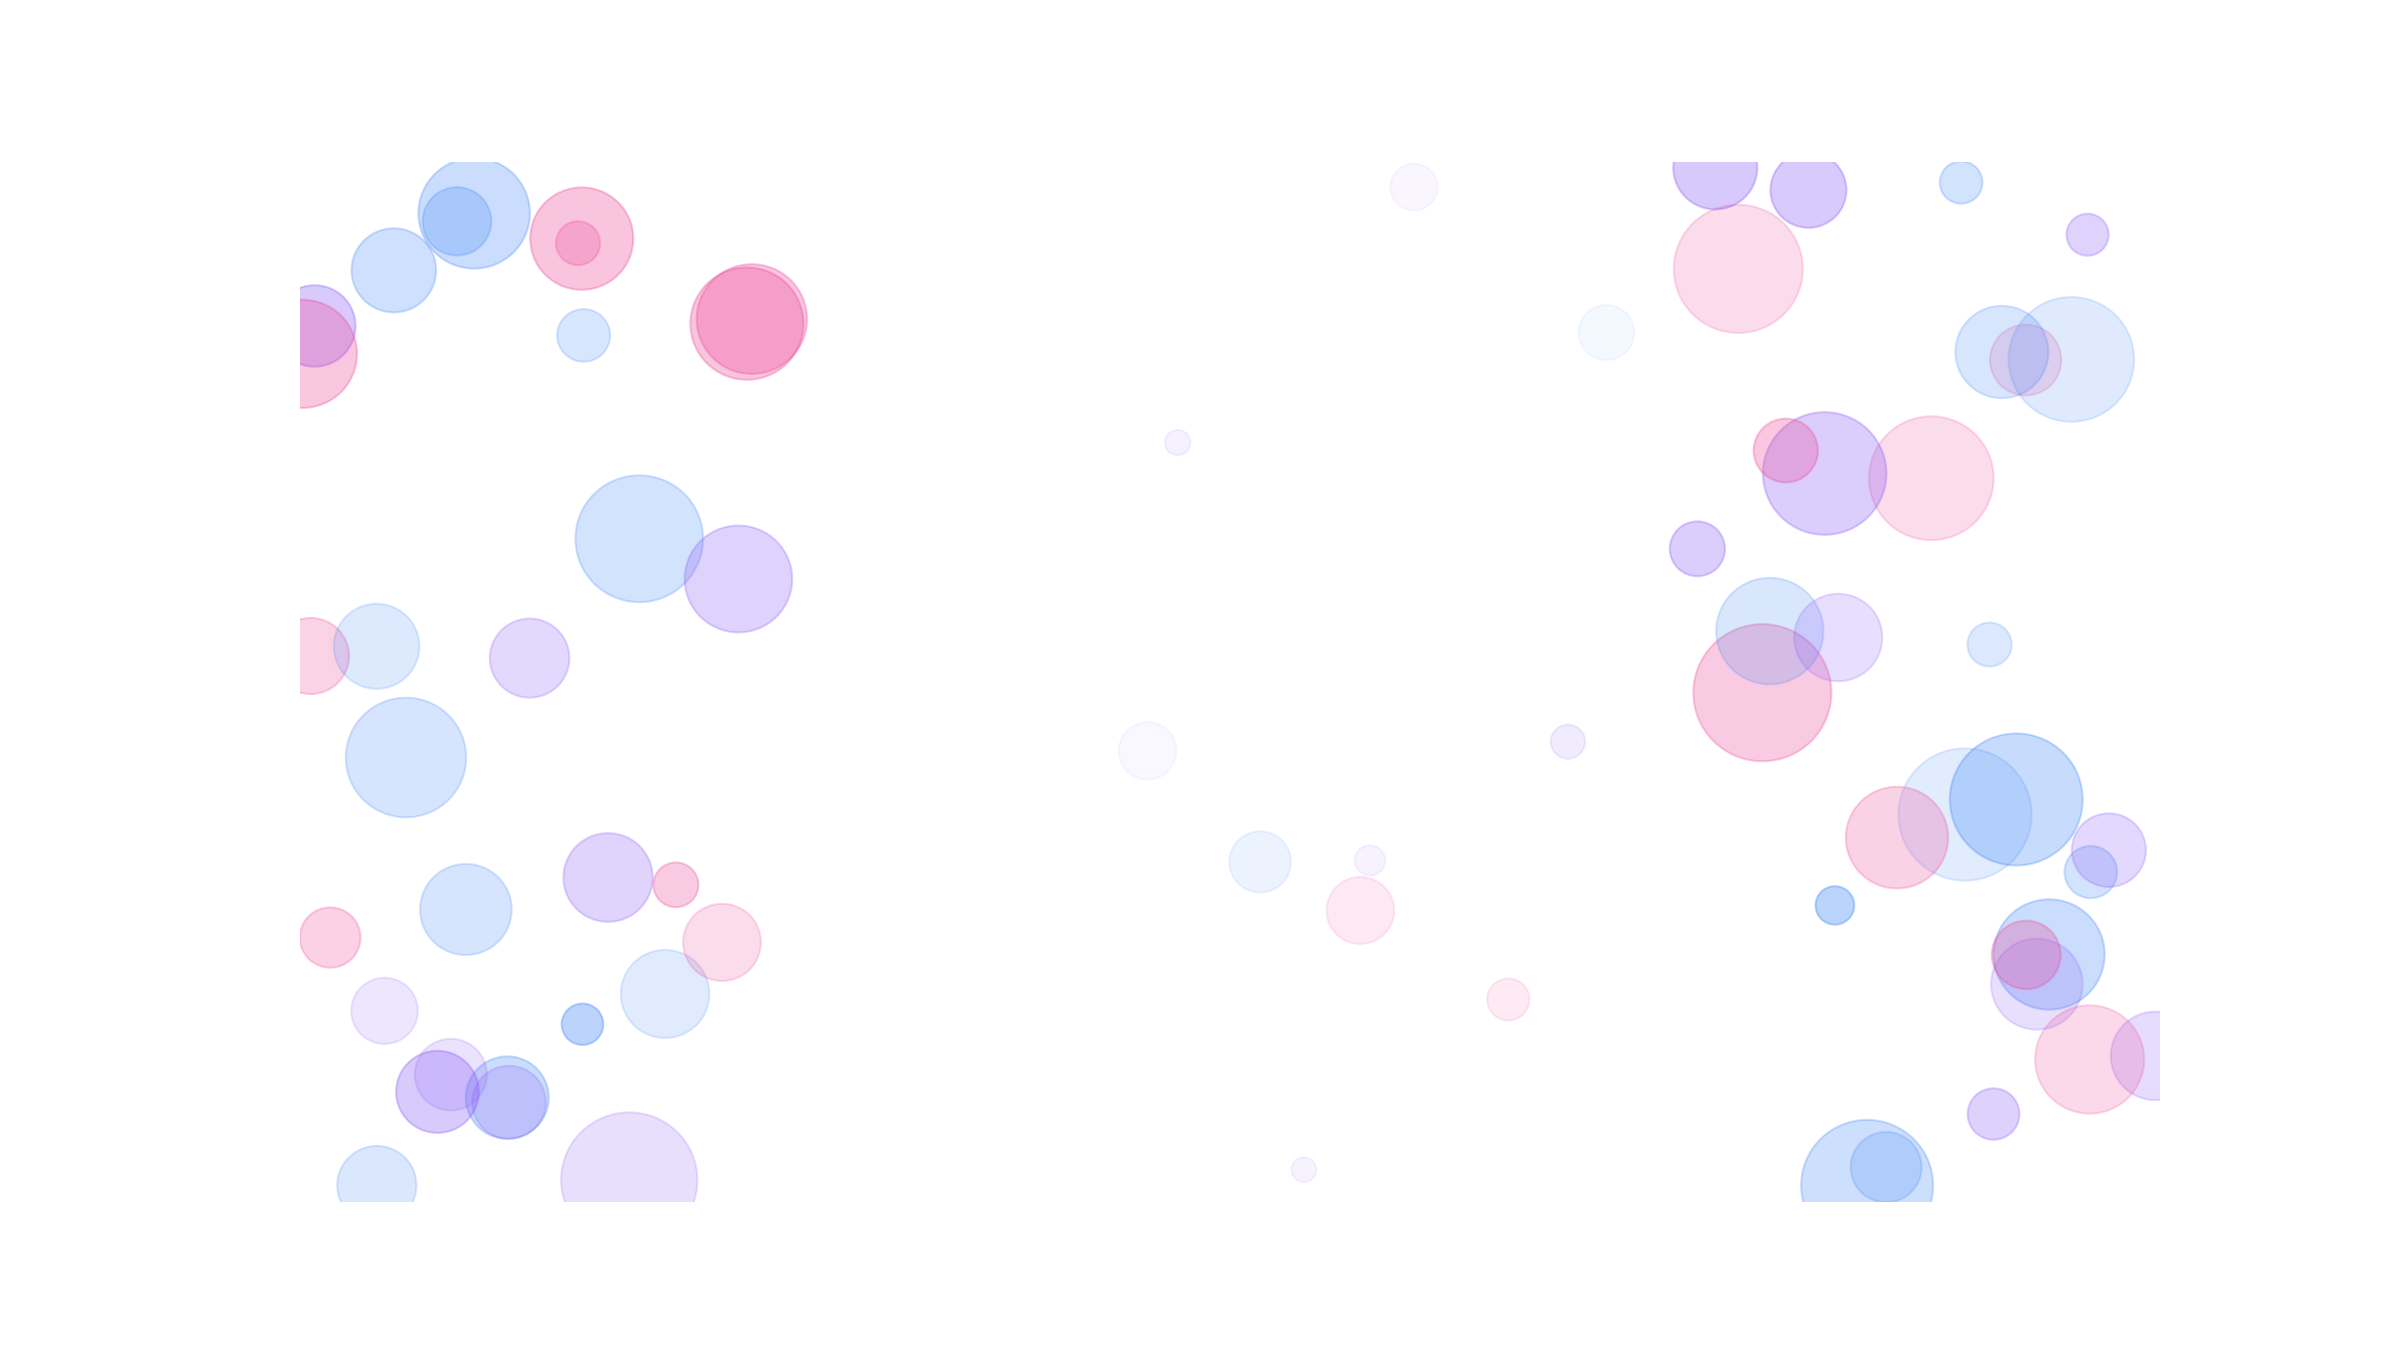
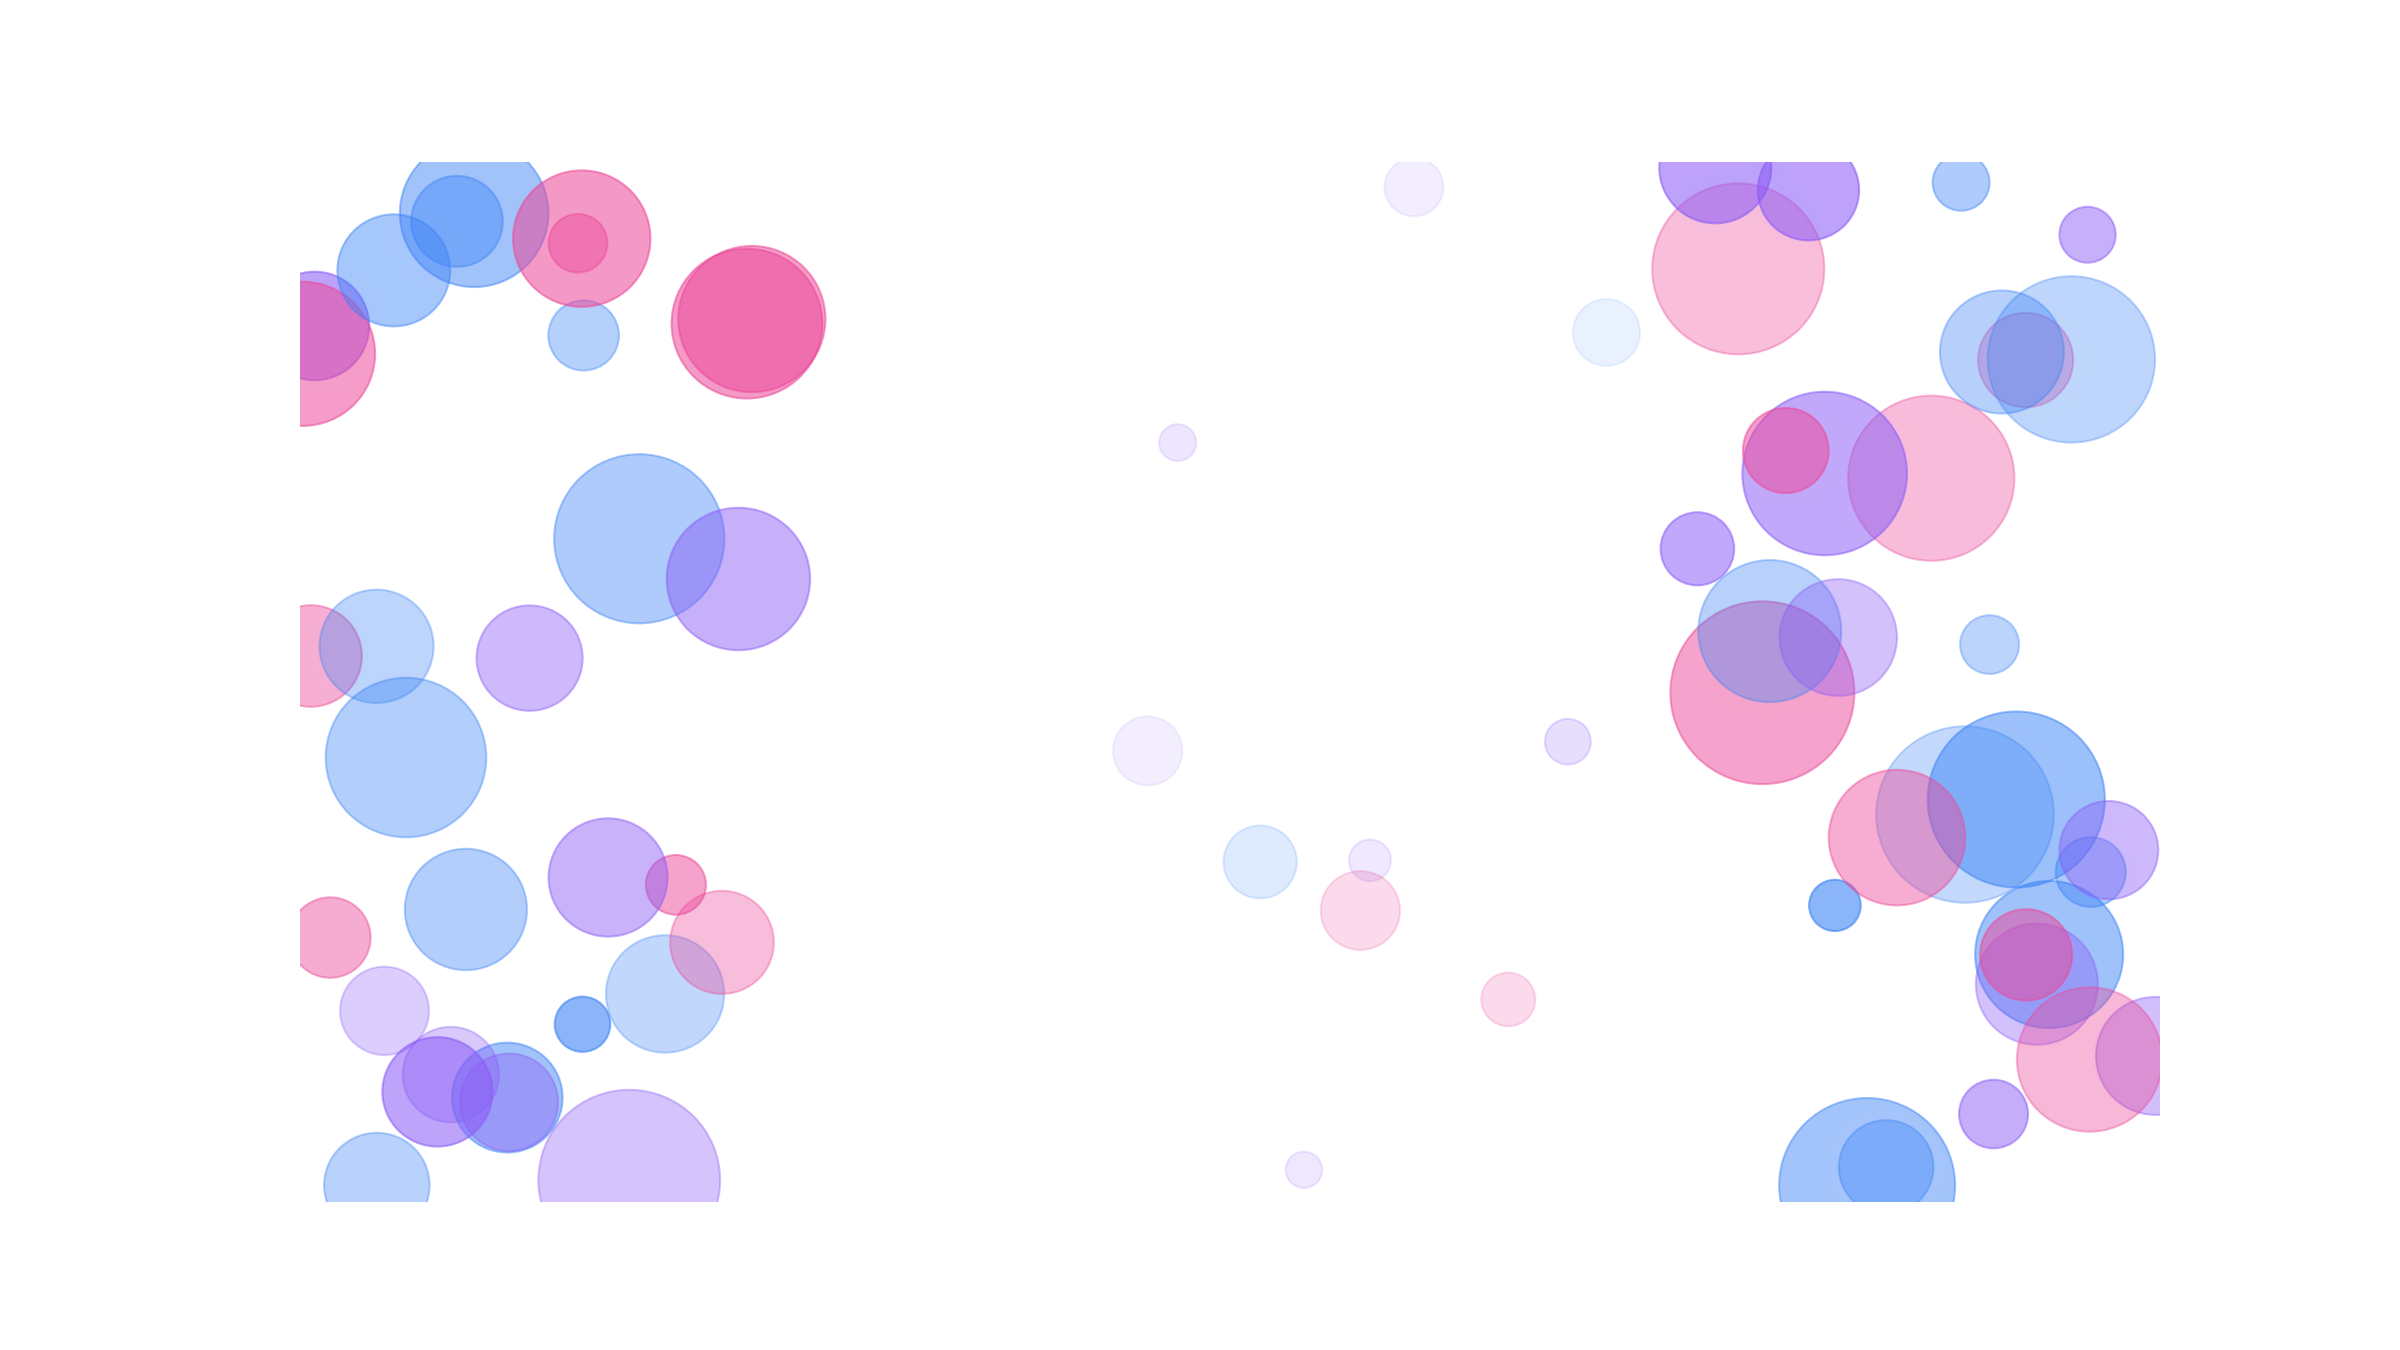
Increase particle visibility on hero background
- Increased particle alpha from 0.15-0.35 to 0.3-0.6
- Increased particle size from 0.15-0.6 to 0.2-0.8
- Increased glow alpha from 0.1 to 0.25 for better bubble effect
- Made center particles slightly more visible (0.1-0.25 alpha)
- Updated cache version to v=3

🤖 Generated with [Claude Code](https://claude.com/claude-code)

diff --git a/landing-page/styles.css b/landing-page/styles.css
@@ -169,7 +169,7 @@ p {
     left: 0;
     right: 0;
     bottom: 0;
-    background-image: url('images/hero/particle-flow-background.webp?v=2');
+    background-image: url('images/hero/particle-flow-background.webp?v=3');
     background-size: cover;
     background-position: center;
     pointer-events: none;

diff --git a/landing-page/images/generate_diagrams.py b/landing-page/images/generate_diagrams.py
@@ -342,43 +342,43 @@ def generate_particle_flow():
     for _ in range(n_particles_per_side):
         x = np.random.uniform(0, 4)
         y = np.random.uniform(0, 9)
-        size = np.random.uniform(0.15, 0.6)
+        size = np.random.uniform(0.2, 0.8)
 
-        # Mix of blue, purple, pink with low alpha for subtlety
+        # Mix of blue, purple, pink with higher alpha for visibility
         color_choice = np.random.choice([COLOR_MACRO, COLOR_MESO, COLOR_MICRO])
-        alpha = np.random.uniform(0.15, 0.35)
+        alpha = np.random.uniform(0.3, 0.6)
 
         circle = Circle((x, y), size, color=color_choice, alpha=alpha, zorder=1)
         ax.add_patch(circle)
 
-        # Add subtle glow/outline for bubble effect
-        glow = Circle((x, y), size + 0.05, color="white", alpha=0.1, zorder=0)
+        # Add white glow/outline for bubble effect
+        glow = Circle((x, y), size + 0.08, color="white", alpha=0.25, zorder=0)
         ax.add_patch(glow)
 
     # RIGHT side particles (x: 12-16)
     for _ in range(n_particles_per_side):
         x = np.random.uniform(12, 16)
         y = np.random.uniform(0, 9)
-        size = np.random.uniform(0.15, 0.6)
+        size = np.random.uniform(0.2, 0.8)
 
         color_choice = np.random.choice([COLOR_MACRO, COLOR_MESO, COLOR_MICRO])
-        alpha = np.random.uniform(0.15, 0.35)
+        alpha = np.random.uniform(0.3, 0.6)
 
         circle = Circle((x, y), size, color=color_choice, alpha=alpha, zorder=1)
         ax.add_patch(circle)
 
-        # Add glow
-        glow = Circle((x, y), size + 0.05, color="white", alpha=0.1, zorder=0)
+        # Add white glow for bubble effect
+        glow = Circle((x, y), size + 0.08, color="white", alpha=0.25, zorder=0)
         ax.add_patch(glow)
 
     # Add a few very subtle particles in the center for transition
     for _ in range(10):
         x = np.random.uniform(4.5, 11.5)
         y = np.random.uniform(0, 9)
-        size = np.random.uniform(0.1, 0.3)
+        size = np.random.uniform(0.15, 0.35)
 
         color_choice = np.random.choice([COLOR_MACRO, COLOR_MESO, COLOR_MICRO])
-        alpha = np.random.uniform(0.05, 0.15)  # Very subtle
+        alpha = np.random.uniform(0.1, 0.25)  # Slightly more visible
 
         circle = Circle((x, y), size, color=color_choice, alpha=alpha)
         ax.add_patch(circle)
